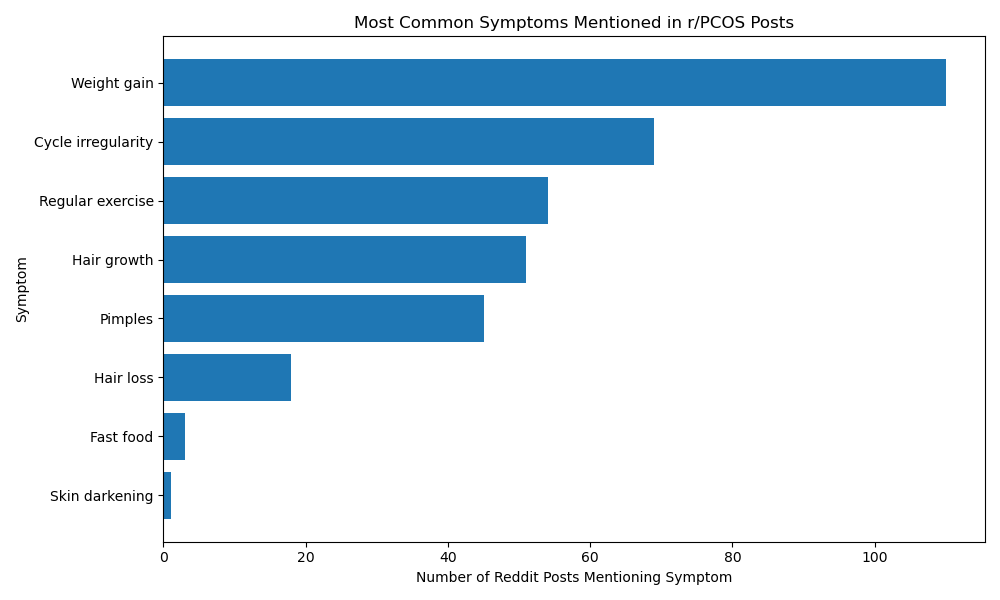
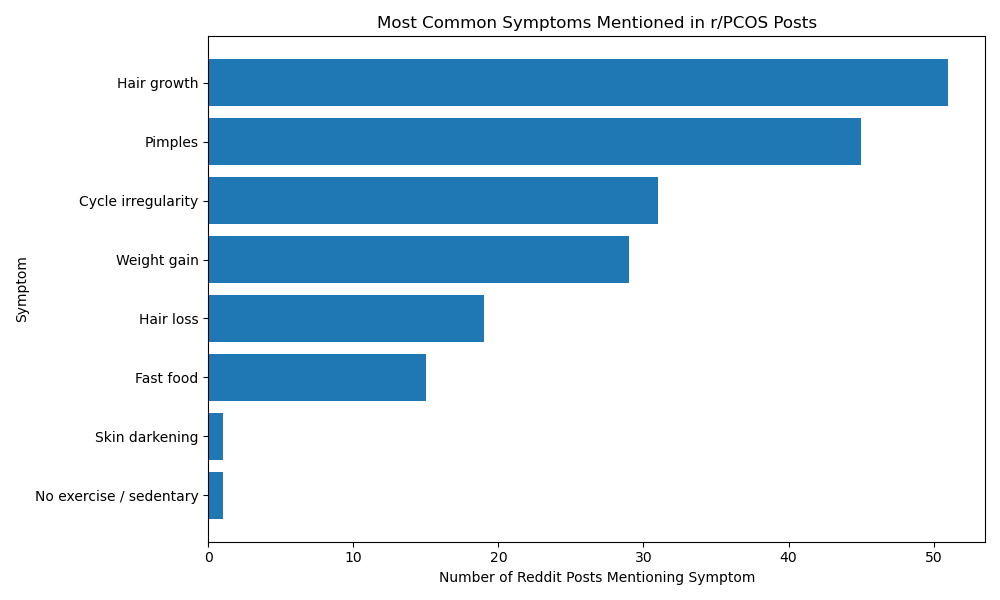
only symptom update

diff --git a/src/reddit_api.py b/src/reddit_api.py
@@ -46,7 +46,7 @@ def fetch_reddit_posts(subreddit="PCOS", total_limit=300, batch_size=100):
 
 
 def count_reddit_symptoms(posts):
-    
+
     symptom_keywords = {
 
     "Cycle irregularity": [
@@ -81,22 +81,16 @@ def count_reddit_symptoms(posts):
         "losing so much hair"
     ],
 
-    "Pimples / acne": [
+    "Pimples": [
         "acne", "pimples", "breakouts",
         "cystic acne", "bad acne", "skin breaking out"
     ],
 
-    "Fast food / diet": [
+    "Fast food": [
         "fast food", "junk food", "bad diet",
         "eating unhealthy", "diet issues", "sugar cravings",
         "craving sugar", "carbs", "processed food"
     ],
-
-    "Exercise / lifestyle": [
-        "exercise", "working out", "workout",
-        "gym", "walking", "walk",
-        "sedentary", "not active"
-    ]
 }
 
     counts = {symptom: 0 for symptom in symptom_keywords}

diff --git a/src/kaggle_pcosdata.py b/src/kaggle_pcosdata.py
@@ -15,7 +15,6 @@ def load_pcos_data(file_path="data/PCOS_data.csv"):
         "Hair loss(Y/N)",
         "Pimples(Y/N)",
         "Fast food (Y/N)",
-        "Reg.Exercise(Y/N)"
     ]
 
     df = df[cols]
@@ -36,7 +35,6 @@ def calculate_symptom_percentages(df):
         "Hair loss(Y/N)",
         "Pimples(Y/N)",
         "Fast food (Y/N)",
-        "Reg.Exercise(Y/N)"
     ]
 
     results = {}
